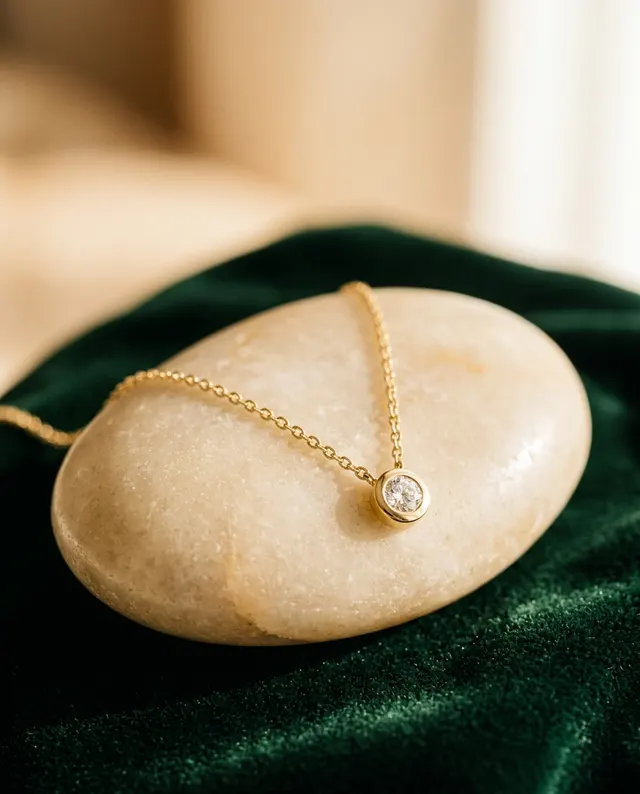
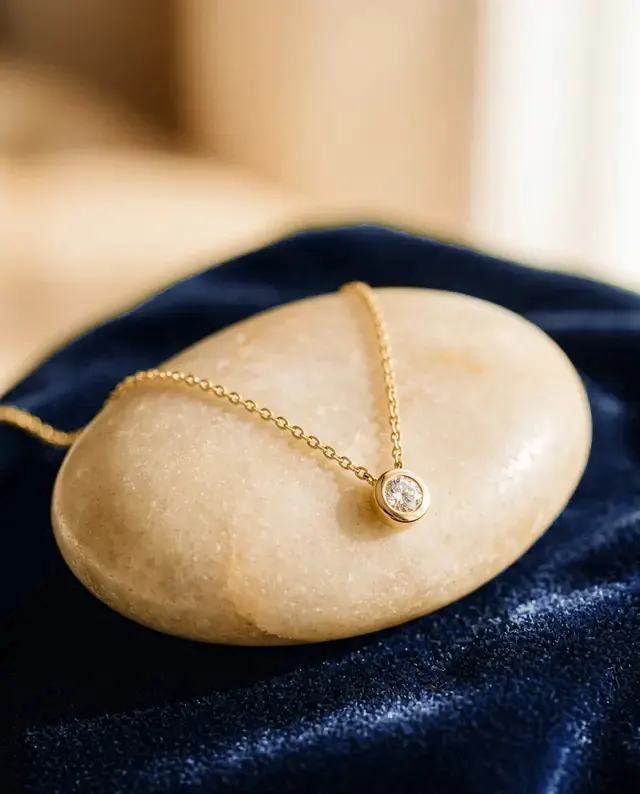
Pasar el terciopelo verde de prod-04 a azul rey
Claude-Session: https://claude.ai/code/session_01Ez97LRr1RxNPPqpdt1yqZy

Changed region(s): [[0.2188, 0.4534, 1.0, 1.0], [0.0, 0.272, 1.0, 0.5441], [0.1562, 0.9975, 0.1875, 1.0]]

diff --git a/src/content/es.ts b/src/content/es.ts
@@ -108,7 +108,7 @@ export const copy = {
     "prod-04": {
       nombre: "Collar de piedra en bisel",
       frase: "Un punto de luz, sin alzar la voz.",
-      alt: "Collar con una piedra clara pequeña en bisel, sobre terciopelo verde.",
+      alt: "Collar con una piedra clara pequeña en bisel, sobre una piedra pulida y terciopelo azul rey.",
     },
     "prod-05": {
       nombre: "Aretes de piedra en bisel",
